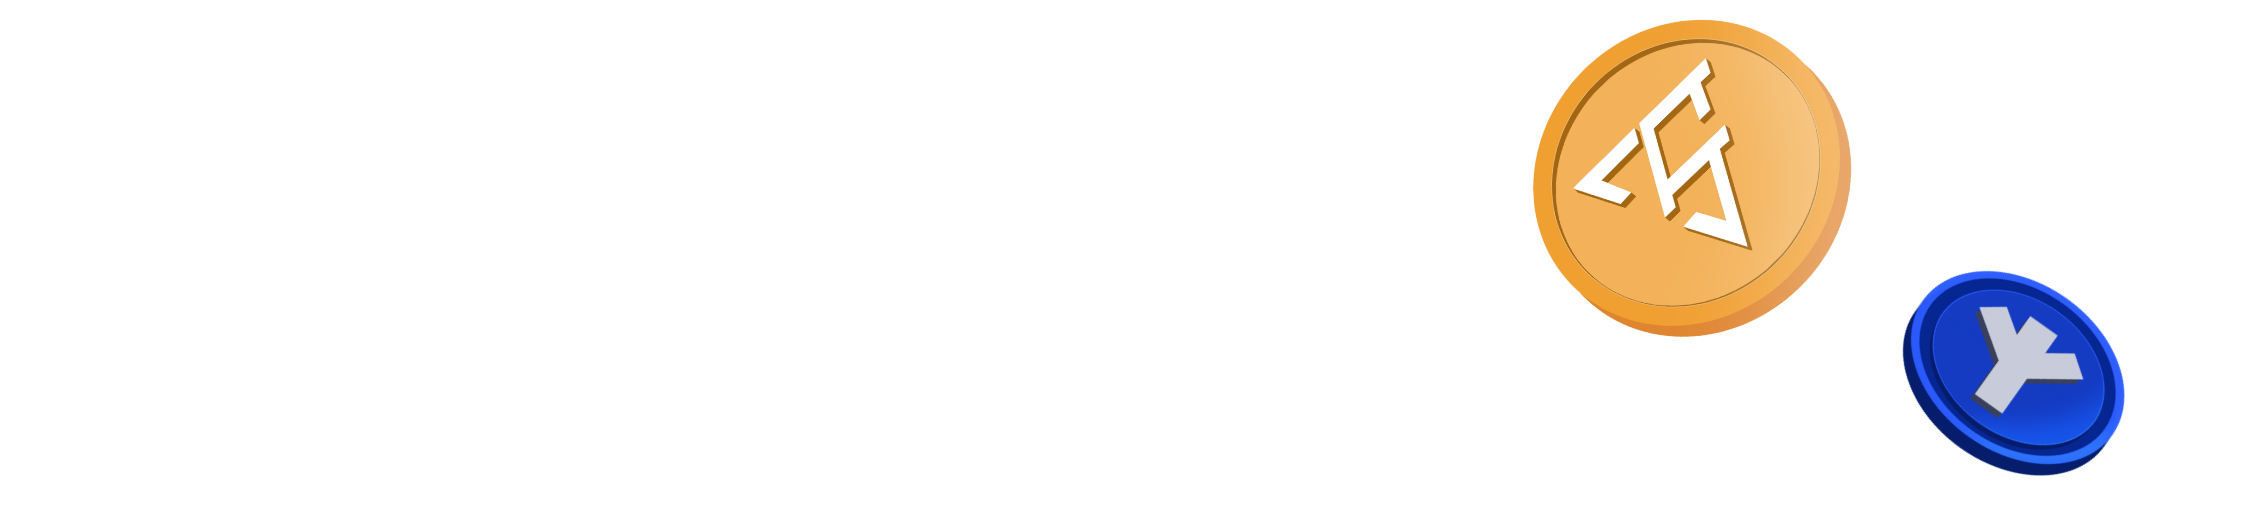
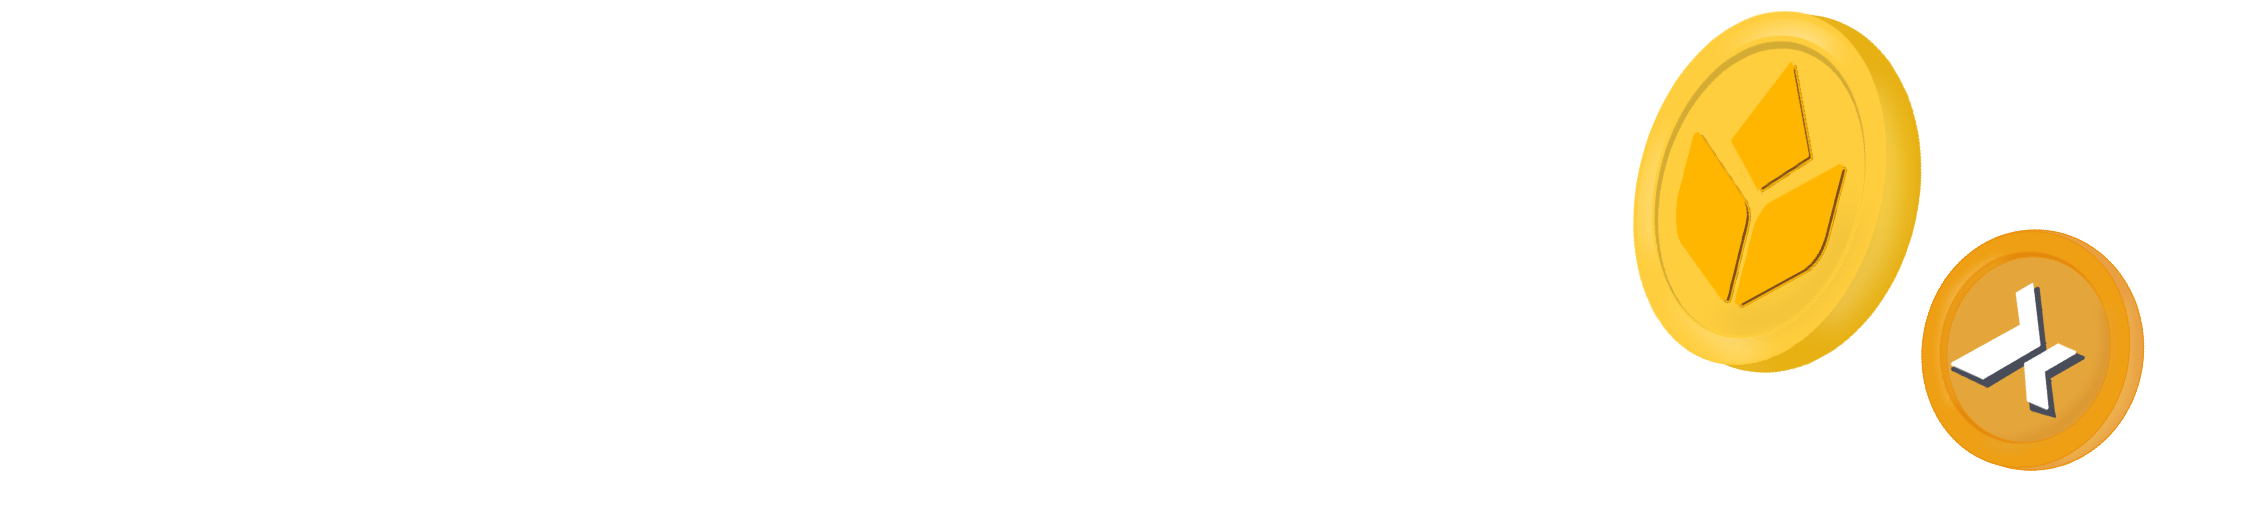
fixed Gas

Changed region(s): [[0.6838, 0.0, 0.9636, 0.9125]]

diff --git a/apps/web/src/views/Home/components/SalesSection/data.ts b/apps/web/src/views/Home/components/SalesSection/data.ts
@@ -50,24 +50,24 @@ export const bridgeSectionData = (t: TranslateFunction): SalesSectionProps => ({
 })
 
 export const earnSectionData = (t: TranslateFunction): SalesSectionProps => ({
-  headingText: t('Earn extra income.'),
+  headingText: t('Launchpad Integration'),
   bodyText: t(
-    'Get additional income through the features that we have provided, We have prepared farming and staking features so that the tokens that you have work for you, everyone is free to choose where their tokens will be stored and we have prepared a place..',
+    'Riceswap is now officially integrated with dxsale. as the main partner for launchpad.',
   ),
   reverse: false,
   primaryButton: {
-    to: '/farms',
-    text: t('Explore'),
+    to: 'https://dx.app/dxsalecreate',
+    text: 'Launchpad',
     external: false,
   },
   secondaryButton: {
     to: 'https://riceswap.gitbook.io',
     text: '',
-    external: true,
+    external: false,
   },
   images: {
     path: '/images/home/earn/',
-    attributes: [{ src: 'ice', alt: t('Pie chart') }],
+    attributes: [{ src: 'dxsale', alt: t('Pie chart') }],
   },
 })
 

diff --git a/apps/web/src/views/Home/components/Banners/PerpetualBanner.tsx b/apps/web/src/views/Home/components/Banners/PerpetualBanner.tsx
@@ -42,7 +42,7 @@ const PerpetualBanner = () => {
   const { isDesktop, isMobile } = useMatchBreakpoints()
   const { isDark } = useTheme()
 
-  const perpetualUrl = useMemo(() => `https://towerswap.finance/farms`, [code, isDark])
+  const perpetualUrl = useMemo(() => `https://dx.app/dxsalecreate`, [code, isDark])
   const headerRef = useRef<HTMLDivElement>(null)
 
   useIsomorphicEffect(() => {
@@ -61,11 +61,11 @@ const PerpetualBanner = () => {
       <S.Inner>
         <S.LeftWrapper>
           <S.StyledSubheading ref={headerRef}>{t('Coming Soon')}</S.StyledSubheading>
-          <Header width={['160px', '160px', 'auto']}>{t('Earn reward from Farming')}</Header>
+          <Header width={['160px', '160px', 'auto']}>{t('RLH PRESALE')}</Header>
           <Link href={perpetualUrl} external>
             <Button>
               <Text color="invertedContrast" bold fontSize="16px" mr="4px">
-                {t('Stake Now')}
+                {t('Buy Now')}
               </Text>
               <ArrowForwardIcon color="invertedContrast" />
             </Button>

diff --git a/apps/web/src/state/user/hooks/index.tsx b/apps/web/src/state/user/hooks/index.tsx
@@ -413,7 +413,7 @@ export function useGasPrice(chainIdOverride?: number): string {
   const { data: bscProviderGasPrice = GAS_PRICE_GWEI.default } = useSWR(
     library &&
       library.provider &&
-      chainId === ChainId.BRISE &&
+      chainId === ChainId.CORE &&
       userGas === GAS_PRICE_GWEI.rpcDefault && ['bscProviderGasPrice', library.provider],
     async () => {
       const gasPrice = await library.getGasPrice()
@@ -426,10 +426,10 @@ export function useGasPrice(chainIdOverride?: number): string {
   )
   const { data } = useFeeData({
     chainId,
-    enabled: chainId !== ChainId.CORE && chainId !== ChainId.BRISE,
+    enabled: chainId !== ChainId.BRISE && chainId !== ChainId.CORE,
     watch: true,
   })
-  if (chainId === ChainId.BRISE) {
+  if (chainId === ChainId.CORE) {
     return userGas === GAS_PRICE_GWEI.rpcDefault ? bscProviderGasPrice : userGas
   }
   if (chainId === ChainId.CORE) {

diff --git a/apps/web/src/views/Home/index.tsx b/apps/web/src/views/Home/index.tsx
@@ -79,6 +79,7 @@ const Home: React.FC<React.PropsWithChildren> = () => {
         index={2}
         hasCurvedDivider={false}
       >
+        <MultipleBanner />
         <Hero />
       </StyledHeroSection>
       <PageSection
@@ -101,6 +102,17 @@ const Home: React.FC<React.PropsWithChildren> = () => {
         <SalesSection {...bridgeSectionData(t)} />
         {/* TODO: until we are enable fetch multi-chain farms */}
         {chainId === ChainId.BSC && <FarmsPoolsRow />}
+      </PageSection>
+      <PageSection
+        innerProps={{ style: HomeSectionContainerStyles }}
+        background={theme.colors.background}
+        containerProps={{
+          id: 'home-4',
+        }}
+        index={2}
+        hasCurvedDivider={false}
+      >
+        <SalesSection {...earnSectionData(t)} />
       </PageSection>
       <PageSection
         innerProps={{ style: HomeSectionContainerStyles }}

diff --git a/apps/web/src/views/Home/components/Banners/AptosBanner.tsx b/apps/web/src/views/Home/components/Banners/AptosBanner.tsx
@@ -56,14 +56,14 @@ const AptosBanner = () => {
           <Box>
             <Image src={AptosXPancakeSwap} alt="aptosXPancakeSwapImage" width={211} height={18} placeholder="blur" />
           </Box>
-          <AptosTitle>{t('Trading now LIVE!')}</AptosTitle>
+          <AptosTitle>{t('Riceswap x DxSale Integration')}</AptosTitle>
 
           <Button
             minHeight="48px"
             onClick={() => window?.open('https://towerswap.finance/swap', '_blank', 'noopener noreferrer')}
           >
             <Text color="invertedContrast" bold fontSize="16px" mr="4px">
-              👋 {t('Trade Now')}
+              👋 {t('Announcement')}
             </Text>
             <OpenNewIcon color="invertedContrast" />
           </Button>

diff --git a/apps/web/src/components/Menu/config/config.ts b/apps/web/src/components/Menu/config/config.ts
@@ -198,17 +198,12 @@ const config: (
       icon: MoreIcon,
       hideSubNav: true,
       items: [
-        // {
-        //   label: t('Stake'),
-        //   href: '/pools',
-        //   supportChainIds: SUPPORT_ONLY_BSC,
-        // },
         {
-          label: t('NFT'),
-          href: '/404',
+          label: t('Launchpad (DxSale)'),
+          href: 'https://dx.app/dxsalecreate',
         },
         {
-          label: t('LaunchPad'),
+          label: t('NFT'),
           href: '/404',
         },
         {

diff --git a/packages/wagmi/chains/chains.ts b/packages/wagmi/chains/chains.ts
@@ -26,7 +26,7 @@ export const core: Chain = {
   name: 'Core Mainnet',
   network: 'Core',
   rpcUrls: {
-    default: 'https://rpc.coredao.org/',
+    default: 'https://rpc-core.icecreamswap.com',
   },
   nativeCurrency: { name: 'CORE', symbol: 'CORE', decimals: 18 },
   blockExplorers: {

diff --git a/apps/web/src/config/constants/pools.tsx b/apps/web/src/config/constants/pools.tsx
@@ -80,6 +80,7 @@ export const livePools: Pool.SerializedPoolConfig<SerializedWrappedToken>[] = [
     tokenPerBlock: '0.05',
     version: 2,
   },
+  /*
   {
     sousId: 2,
     stakingToken: coreTokens.rlh,
